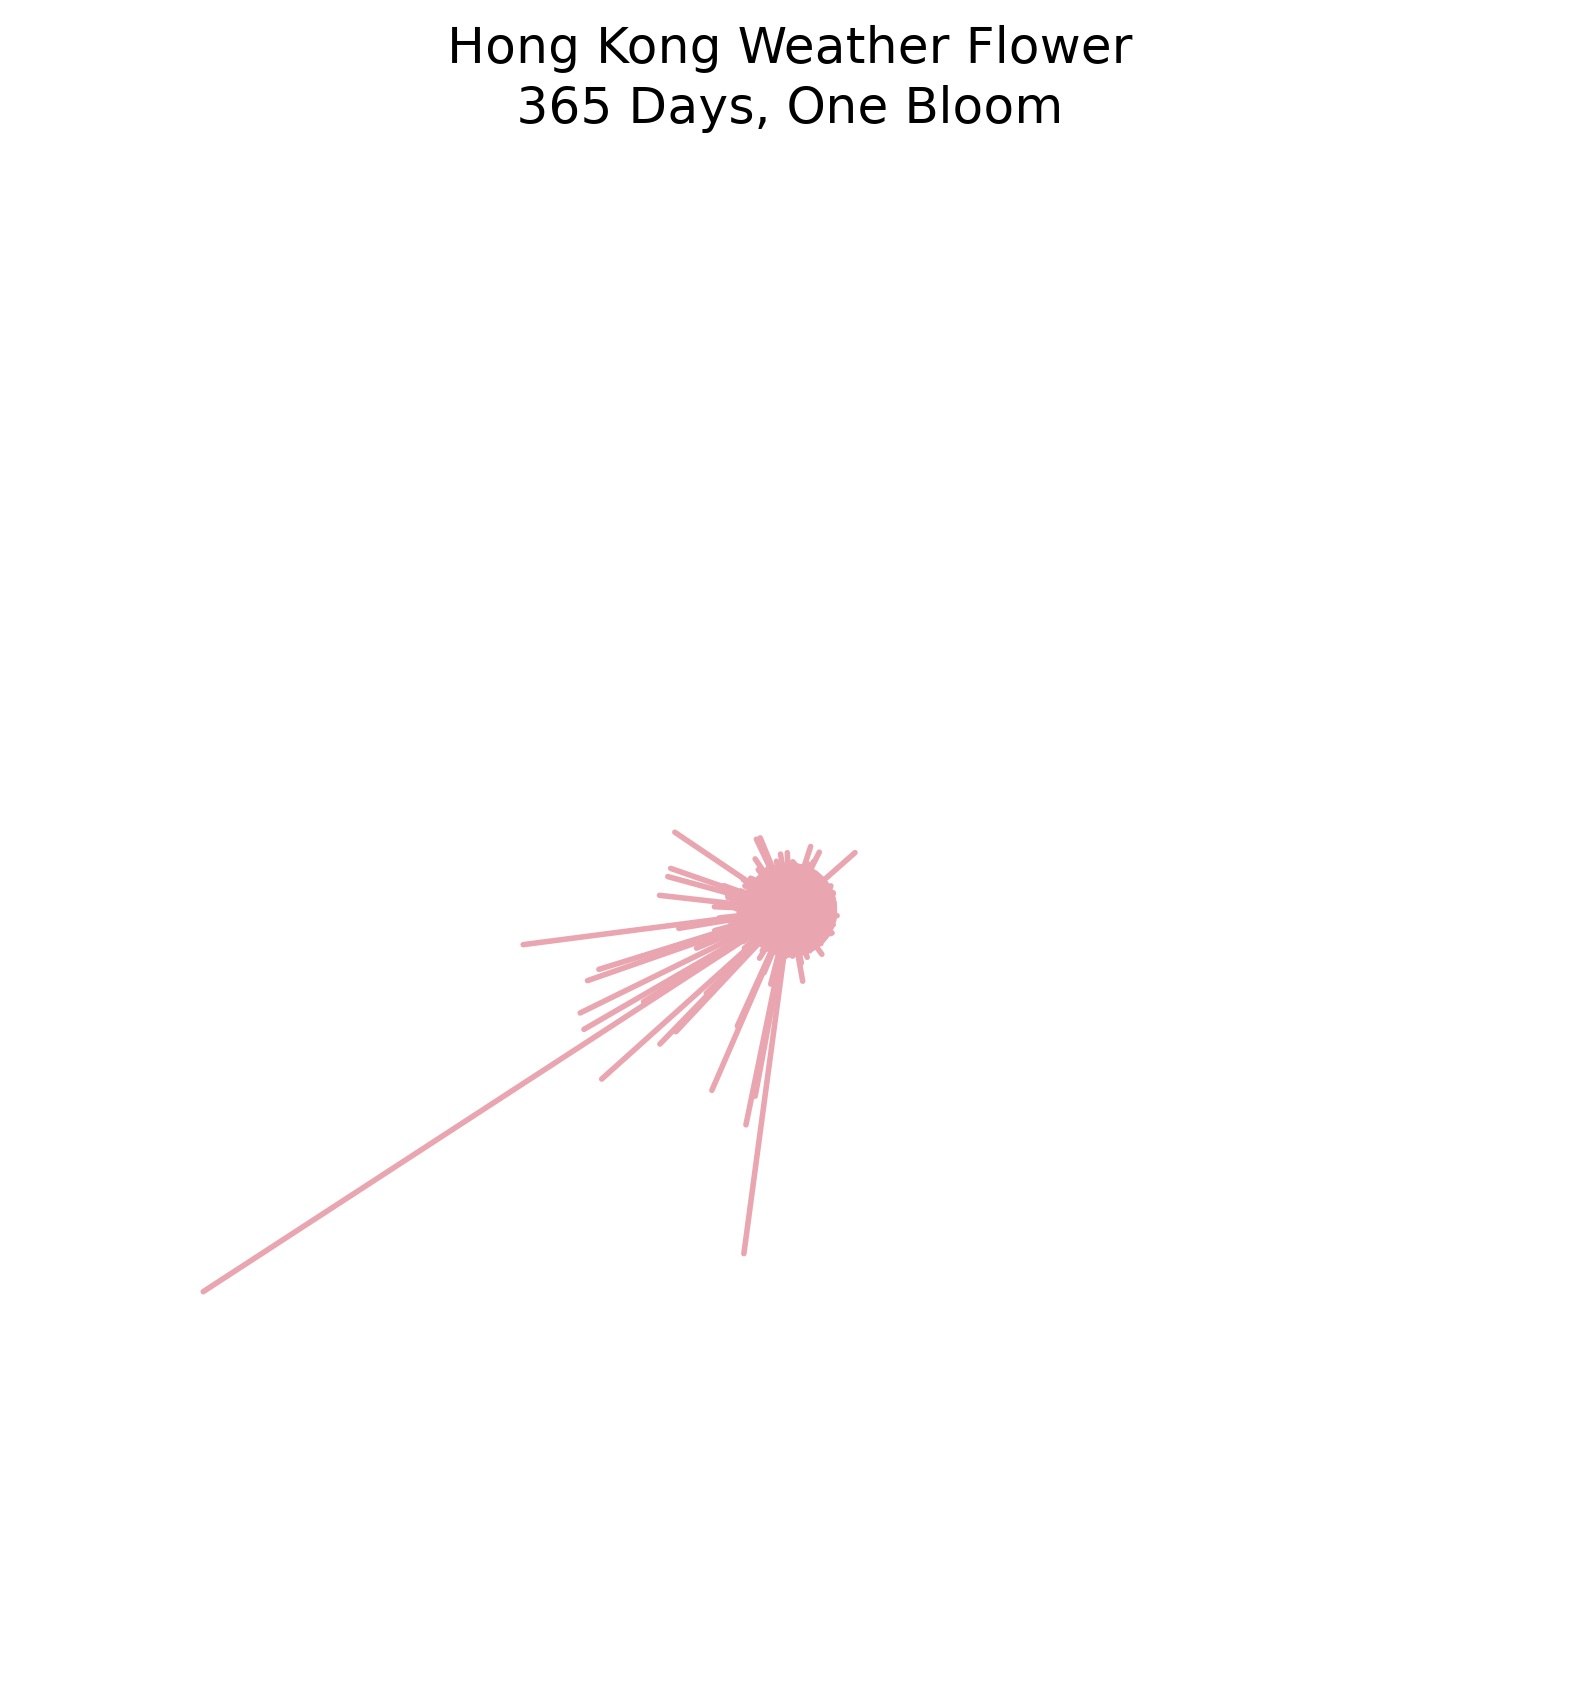
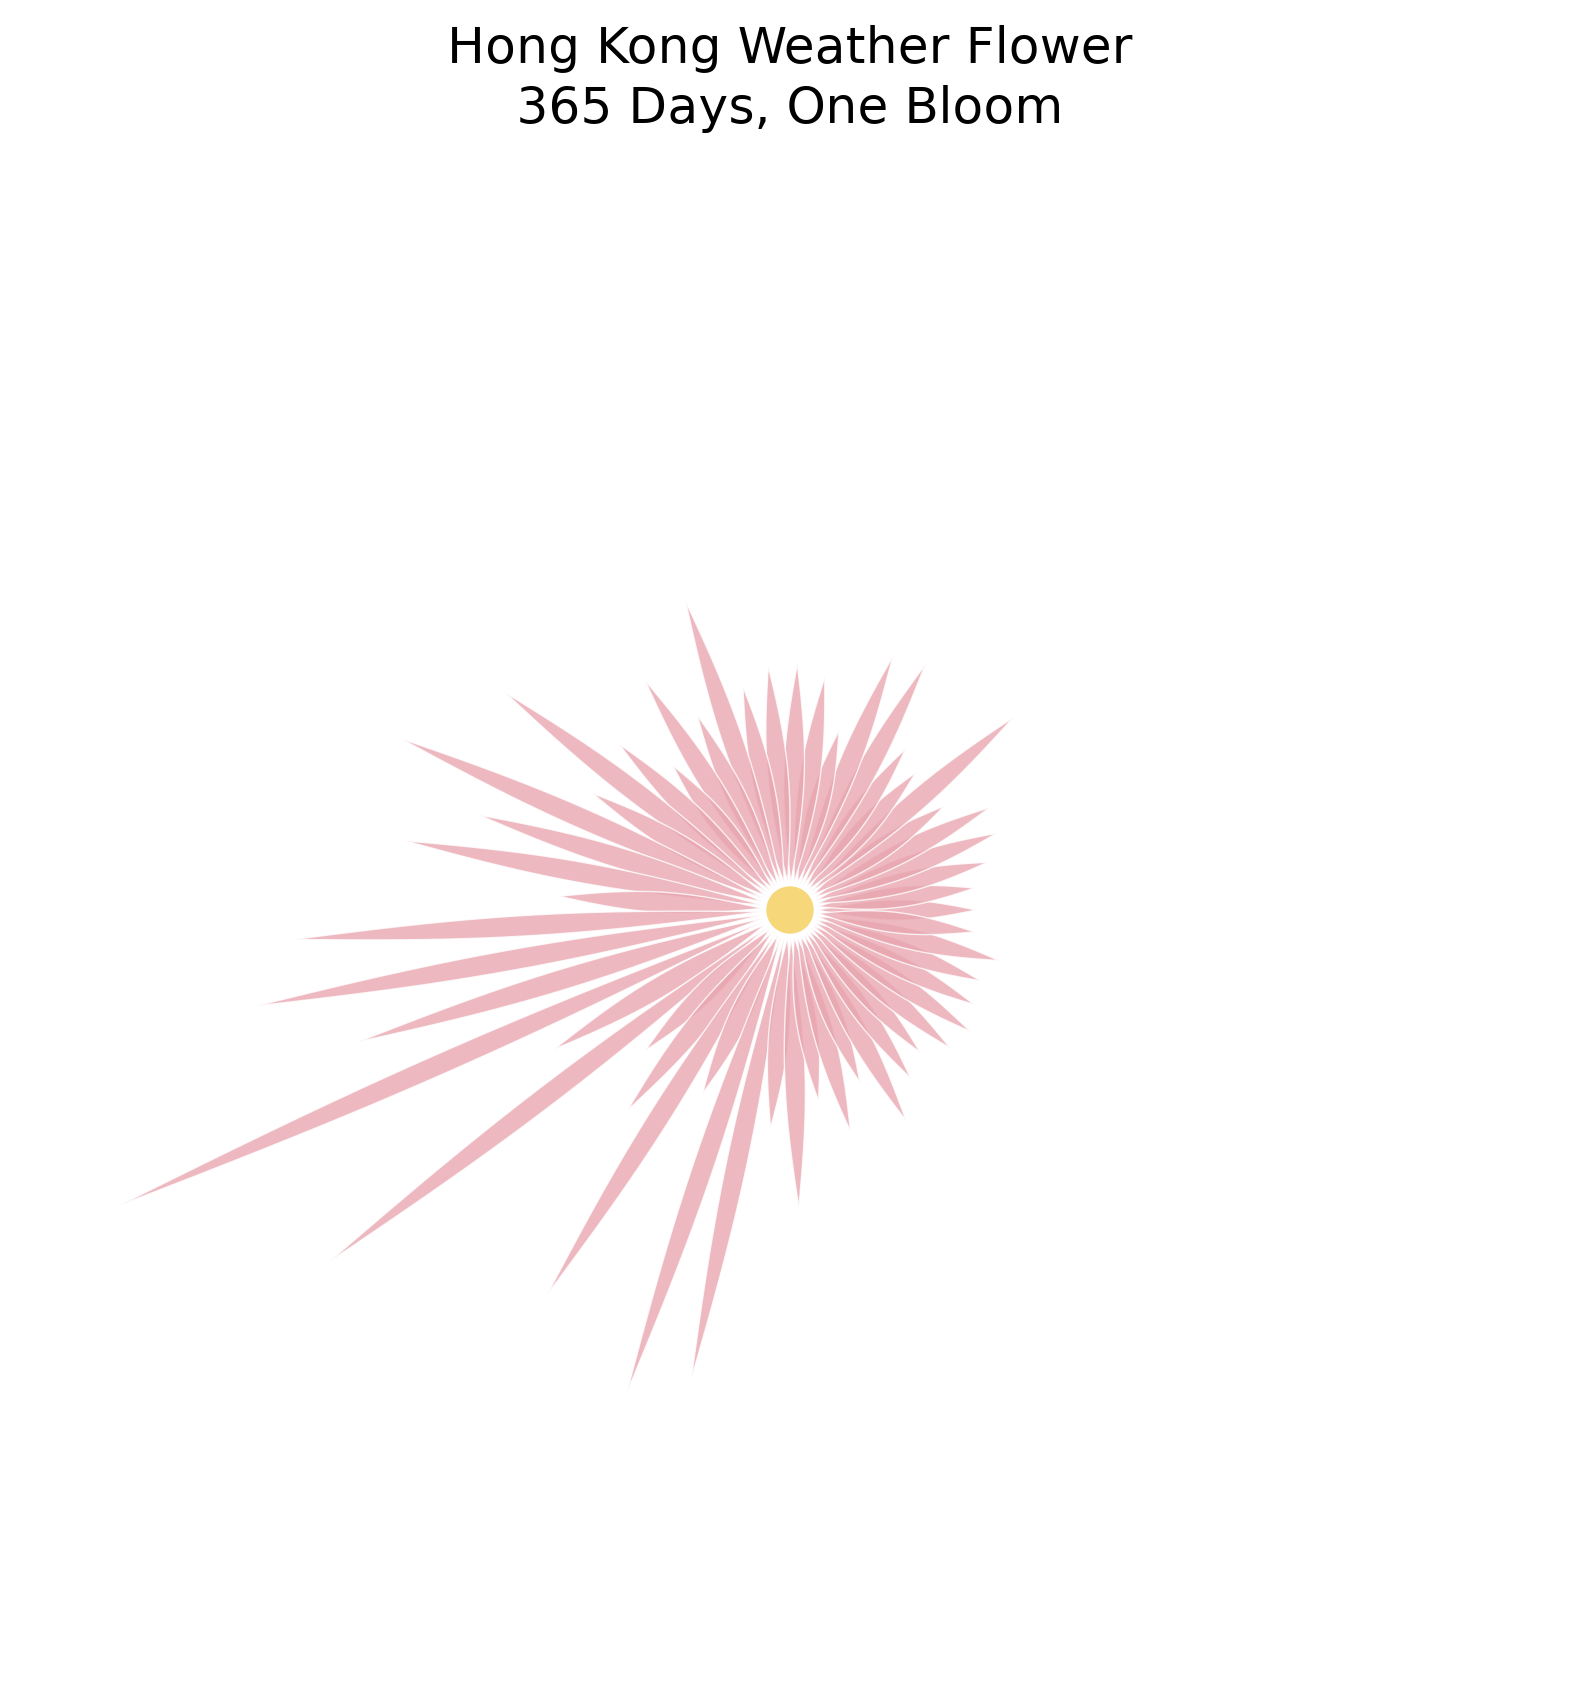
Implement code changes to enhance functionality and improve performance

Changed region(s): [[0.1241, 0.3741, 0.6203, 0.7794], [0.3411, 0.7171, 0.3722, 0.7482], [0.1551, 0.7171, 0.1861, 0.7482]]

diff --git a/weather_garden.py b/weather_garden.py
@@ -7,13 +7,20 @@
 import numpy as np
 import matplotlib.pyplot as plt
 from pathlib import Path
+from matplotlib.colors import LinearSegmentedColormap, Normalize
+from matplotlib.cm import ScalarMappable
 import csv
+
 
 HERE = Path(__file__).parent
 OUT = HERE / "out"
+
 RAIN_FILE = HERE / "data" / "hko-daily-rainfall-all-years.csv"
+TEMP_FILE = HERE / "data" / "hko-daily-mean-temperature-2025.csv"
 
 DAYS = 365
+
+
 rainfall = []
 
 with open(
@@ -26,17 +33,14 @@ with open(
 
     for row in reader:
 
-      
         if not row or row[0] != "2025":
             continue
 
         value = row[3].strip()
 
-        
         if value == "Trace":
             value = 0.0
 
-        
         elif value in ("***", "", "N/A"):
             value = None
 
@@ -45,8 +49,47 @@ with open(
 
         rainfall.append(value)
 
+
+# ------------------------------------
+# 读取2025年每天的平均气温
+# ------------------------------------
+
+temperature = []
+
+with open(
+    TEMP_FILE,
+    encoding="utf-8-sig",
+    newline=""
+) as file:
+
+    reader = csv.reader(file)
+
+    for row in reader:
+
+        # 只读取2025年的数据
+        if not row or row[0] != "2025":
+            continue
+
+        value = row[3].strip()
+
+        # 跳过缺失的气温数据
+        if value in ("***", "", "N/A"):
+            value = None
+        else:
+            value = float(value)
+
+        temperature.append(value)
+
+print("Number of temperature days:", len(temperature))
+
+if len(temperature) != DAYS:
+    raise ValueError("Expected 365 days of temperature data")
+
+if any(value is None for value in temperature):
+    raise ValueError("Some temperature values are missing")
+
+
 print("Number of days:", len(rainfall))
-print("First 10 rainfall values:", rainfall[:10])
 
 if len(rainfall) != DAYS:
     raise ValueError("Expected 365 days of rainfall data")
@@ -55,65 +98,214 @@ if any(value is None for value in rainfall):
     raise ValueError("Some rainfall values are missing")
 
 
-fig, ax = plt.subplots(figsize=(10, 10))
 
-ax.set_aspect("equal")
+weekly_rainfall = []
 
-angles = np.linspace(
-    0,
-    2 * np.pi,
-    DAYS,
-    endpoint=False
+for i in range(0, DAYS, 7):
+
+    one_week = rainfall[i:i + 7]
+
+    total_rain = sum(one_week)
+
+    weekly_rainfall.append(total_rain)
+
+print("Number of weeks:", len(weekly_rainfall))
+print("Weekly rainfall:", weekly_rainfall)
+
+
+# ------------------------------------
+# 计算每周平均气温
+# ------------------------------------
+
+weekly_temperature = []
+
+for i in range(0, DAYS, 7):
+
+    # 取出这一周每天的气温
+    one_week = temperature[i:i + 7]
+
+    # 计算这一周的平均气温
+    average_temp = sum(one_week) / len(one_week)
+
+    # 保存这一周的平均气温
+    weekly_temperature.append(average_temp)
+
+print("Number of temperature weeks:", len(weekly_temperature))
+print("Weekly temperature:", weekly_temperature)
+
+
+
+fig, ax = plt.subplots(figsize=(10, 6))
+
+WEEKS = len(weekly_rainfall)
+
+# 控制线条间距，数字越小，排列越紧密
+SPACING = 0.65
+
+weeks = np.arange(WEEKS) * SPACING
+
+
+lengths = []
+
+for rain in weekly_rainfall:
+
+  
+    length = 0.5 + np.sqrt(rain) * 0.2
+
+    lengths.append(length)
+
+
+# 创建从浅红色到深红色的渐变
+
+temperature_colors = LinearSegmentedColormap.from_list(
+    "HongKongTemperature",
+    [
+        "#FFF5F5",  # 最低温：接近白色的浅红
+        "#F4A3A3",  # 中间温度：粉红色
+        "#B91C1C"   # 最高温：深红色
+    ]
+)
+
+# 找到全年最低和最高的周平均气温
+min_temp = min(weekly_temperature)
+max_temp = max(weekly_temperature)
+
+# 把气温转换成0到1之间的数字
+temp_norm = Normalize(
+    vmin=min_temp,
+    vmax=max_temp
 )
 
 
-# 画365片花瓣
-for angle, rain in zip(angles, rainfall):
 
-    # 每片花瓣的长度由降雨量决定
-    length = 0.25 + rain / 100
+# 每周降雨量决定长度
+# 每周平均气温决定颜色
 
-    x = length * np.cos(angle)
-    y = length * np.sin(angle)
+for week, length, temp in zip(
+    weeks,
+    lengths,
+    weekly_temperature
+):
 
+    # 把这一周的气温转换成红色
+    line_color = temperature_colors(
+        temp_norm(temp)
+    )
+
+    # 绘制上下对称的线条
     ax.plot(
-        [0, x],
-        [0, y],
-        color="#E9A6B0",
-        linewidth=2,
+        [week, week],
+        [-length / 2, length / 2],
+        color=line_color,
+        linewidth=10,
         solid_capstyle="round"
     )
 
 
-flower_center = plt.Circle(
-    (0, 0),
-    0.12,
-    color="#F6D77A"
+
+max_length = max(lengths)
+
+
+ax.set_ylim(
+    -max_length * 0.6,
+    max_length * 0.6
 )
 
-ax.add_patch(flower_center)
+ax.set_xlim(
+    -SPACING,
+    weeks[-1] + SPACING
+)
 
-ax.axis("off")
 
-max_length = 0.25 + max(rainfall) / 100
-limit = max_length * 1.1
+ax.set_xticks(
+    weeks[[0, 13, 26, 39, 52]]
+)
+ax.set_xticklabels(
+    ["Jan", "Apr", "Jul", "Oct", "Dec"],
+    fontsize=12
+)
 
-ax.set_xlim(-limit, limit)
-ax.set_ylim(-limit, limit)
+ax.set_xlabel(
+    "Week of 2025",
+    fontsize=12,
+    labelpad=15
+)
+
+ax.set_yticks([])
+
+for spine in ax.spines.values():
+    spine.set_visible(False)
+
+ax.tick_params(axis="x", length=0)
+
+
+
+# ------------------------------------
+# 添加右下角的温度颜色图例
+# ------------------------------------
+
+# 创建颜色图例的数据对象
+sm = ScalarMappable(
+    norm=temp_norm,
+    cmap=temperature_colors
+)
+
+# 在图表右下角创建一个小区域
+legend_ax = ax.inset_axes(
+    [0.73, 0.06, 0.24, 0.025]
+)
+
+# 绘制横向渐变颜色条
+colorbar = fig.colorbar(
+    sm,
+    cax=legend_ax,
+    orientation="horizontal"
+)
+
+# 显示最低和最高周平均气温
+colorbar.set_ticks([
+    min_temp,
+    max_temp
+])
+
+colorbar.set_ticklabels([
+    f"{min_temp:.1f}°C",
+    f"{max_temp:.1f}°C"
+])
+
+# 在颜色条上方添加标题
+colorbar.ax.set_title(
+    "Weekly Mean Temperature",
+    fontsize=9,
+    pad=8
+)
+
+# 调整数字大小
+colorbar.ax.tick_params(
+    labelsize=8,
+    length=0
+)
+
+# 去掉颜色条的黑色边框
+colorbar.outline.set_visible(False)
 
 ax.set_title(
-    "Hong Kong Weather Flower\n365 Days, One Bloom",
-    fontsize=18
+    "Hong Kong Weather Rhythm\n"
+    "53 Weekly Rainfall Groups in 2025",
+    fontsize=20,
+    pad=30
 )
+
+fig.tight_layout()
 
 OUT.mkdir(exist_ok=True)
 
 fig.savefig(
-    OUT / "weather-flower-2025.png",
+    OUT / "weather-rhythm-2025.png",
     dpi=200,
     bbox_inches="tight"
 )
 
-print("Saved out/weather-flower-2025.png")
+print("Saved out/weather-rhythm-2025.png")
 
 plt.show()
